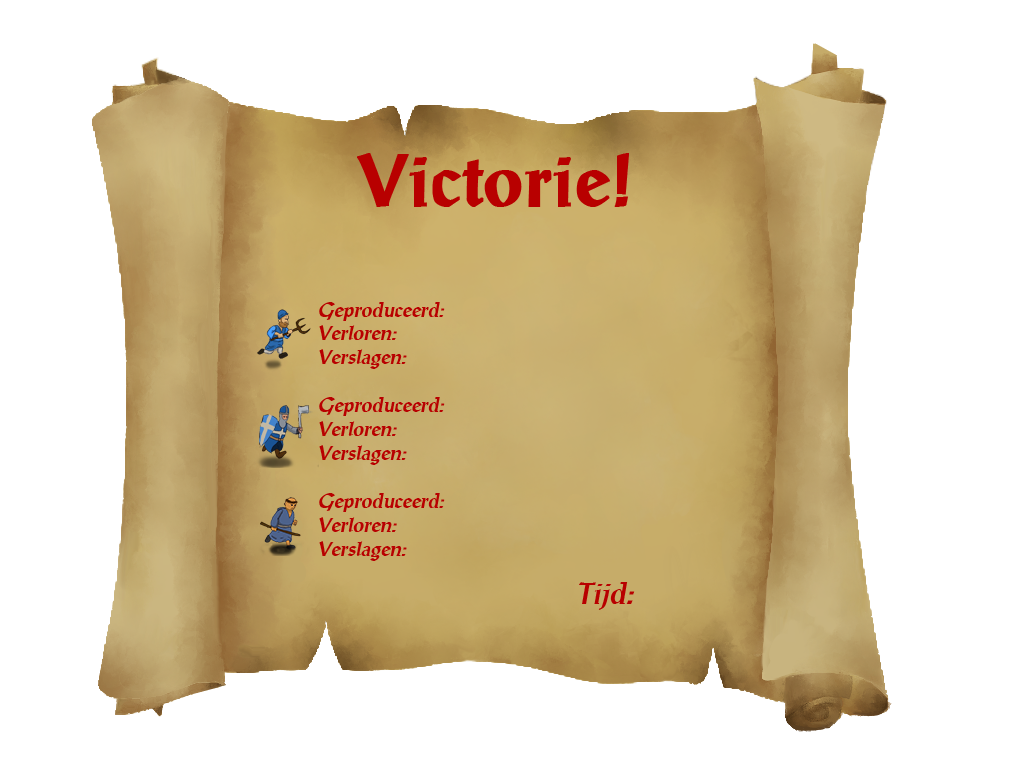
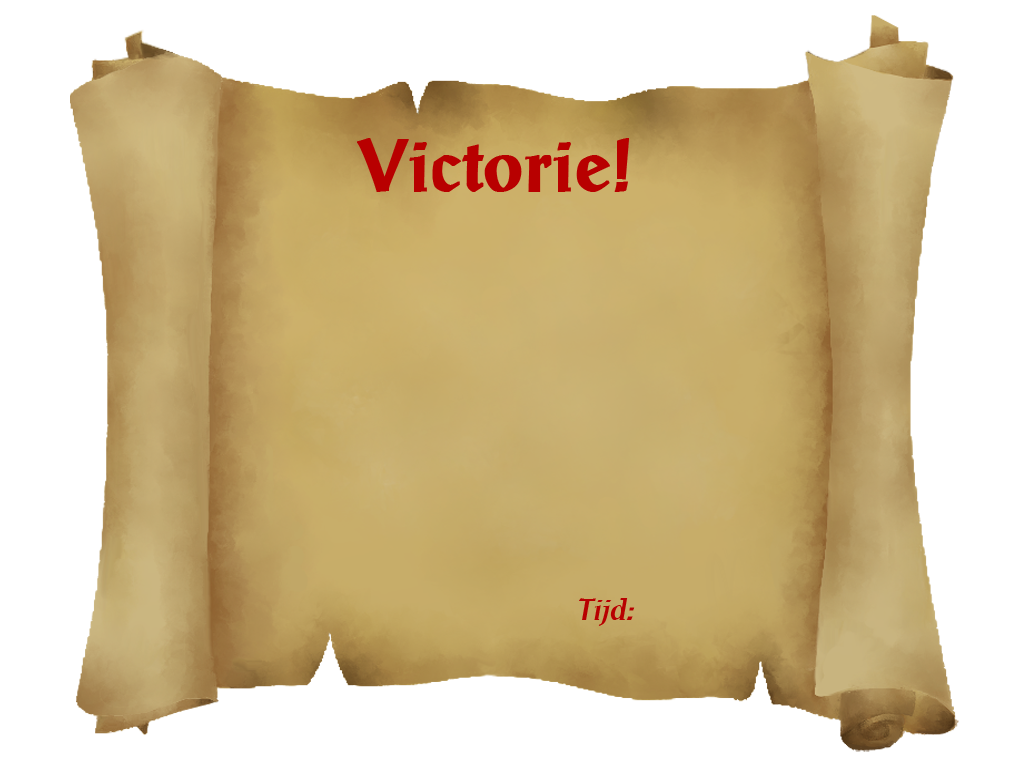
Fixed endscreen for different unit types, added time to endscreen, fixed related code

diff --git a/js/entities/endpopup.js b/js/entities/endpopup.js
@@ -4,8 +4,11 @@ Main.Endpopup =  Main.GUIContainer.extend(
 	retryButton: null, // placeholder for the retry button
 	campaignButton: null, // placeholder for the campaing button
 	levelname: null, // name of the current level
-	unitTypes: [], // Array with all the different unittypes
-	categories: [], // Array with all the categories
+    categories:  ["spawned", "lost", "killed"],
+    statY: 220, // y position for unit stats
+    statYSpace: 100, // y space between each unit's stats
+    buttonspace: 240, // pixels between the forward and retry buttons
+		
 	
 	init: function(userWon, scoreData, levelname)
 	{	
@@ -13,12 +16,12 @@ Main.Endpopup =  Main.GUIContainer.extend(
 		
 		this.initBackground(userWon);
 		this.initButtons();
+		this.initImages(scoreData);
 		this.initTextobjects(scoreData);
 		
 		this.parent(0, 0, [this.imageObject, this.retryButton, this.campaignButton]);
 	},
 	
-	// TODO: retry, backt to campaign
 	initBackground: function(userWon)
 	{
 		var img = "popup_" + (userWon ? "win" : "lose");
@@ -27,17 +30,13 @@ Main.Endpopup =  Main.GUIContainer.extend(
 	
 	initButtons: function()
 	{
-		var x = (0.5 * Constants.screenWidth) - (0.5 * this.imageObject.width);
-        var y = (0.5 * Constants.screenHeight) - (0.5 * this.imageObject.height);
-		var buttonspace = 240;
+		var x = 0.45 * Constants.screenWidth;
+        var y = 0.81 * Constants.screenHeight;
 		
-		
-		var campaignButtonImage = new Main.Image(x+ this.imageObject.width * 0.6,
-												y + this.imageObject.height * 0.8,
-												"popup_campaign");
-		var retryButtonImage = new Main.Image((x - campaignButtonImage.width - buttonspace) + this.imageObject.width * 0.6,
-												y + this.imageObject.height * 0.8,
+		var retryButtonImage = new Main.Image(x - this.buttonspace, y,
 											"popup_retry");
+		var campaignButtonImage = new Main.Image(x + this.buttonspace, y,
+												"popup_campaign");
 		
 		campaignButtonImage.baseImage = "popup_campaign";
 		retryButtonImage.baseImage = "popup_retry";
@@ -72,23 +71,57 @@ Main.Endpopup =  Main.GUIContainer.extend(
 		me.state.change(me.state.READY); 
 		me.game.remove(this);
 	},
+
+    initImages: function(scoreData)
+    {
+        for (var i=0; i<scoreData.units.length; i++)
+        {
+            var size = GetUnitSize(scoreData.units[i]);
+            var img = new Main.TileImage(320, 
+                                         (this.statY + (this.statYSpace*i)),
+                                         "user_"+scoreData.units[i]+
+                                         "_downright_0",
+                                         size, size,
+                                         0);
+            me.game.add(img, 250);
+        }
+    },
 	
 	initTextobjects: function(scoreData)
 	{
-		this.unitTypes = GetUnits();
-		
-		this.categories = ["spawned", "lost", "killed"];
-		
-		for(var i = 0; i < this.unitTypes.length; i++)
+		for(var i = 0; i < scoreData.units.length; i++)
 		{
 			for(var j = 0; j < this.categories.length; j++)
 			{
-				//console.log(this.unitTypes[i] + " : "+ this.categories[j]+ " " + scoreData.getScore(this.unitTypes[i], this.categories[j]));
-				var text = scoreData.getScore(this.unitTypes[i], this.categories[j]);
-				var textObject = new Main.TextObject(500, (300 + ((100*i) +(20*j))), text, Main.font);
+                var pretext = this.getDutchTextForCategory(this.categories[j])
+                              + ": ";
+				var number = scoreData.getScore(scoreData.units[i],
+                                              this.categories[j]);
+				var textObject = new Main.TextObject(500, (this.statY +
+                                                 ((this.statYSpace*i) +(20*j))),
+                                                   pretext + number, Main.font);
 				me.game.add(textObject, 300);
 			}
-		}
+		} // 650 581
+
+        var winTime = Math.round((me.timer.getTime() - scoreData.startLevelTime)
+                                 / 1000);
+        me.game.add(new Main.TextObject(650, 600, winTime + " sec",
+                                        Main.font),
+                    350);
 	},
-	
+
+    getDutchTextForCategory: function(category)
+    {
+        switch(category)
+        {
+            case "spawned":
+            return "Geboren"
+            case "lost":
+            return "Verloren"
+            case "killed":
+            return "Verslagen"
+        }
+        throw "Trying to get Dutch text for unknown category: " + category
+    },
 });

diff --git a/js/screens/level.js b/js/screens/level.js
@@ -5,7 +5,6 @@ Main.LevelScreen = me.ScreenObject.extend(
     name: "", // string containing name of the level
     background: null, // ImageObject with the background image
     buildings: null, // array of building buttons 
-    interface: null, // LevelInterface
     players: null, // dictionary containing all players
     actions: null, // array of action objects containing what should happen
                    // at the start of the level
@@ -78,9 +77,8 @@ Main.LevelScreen = me.ScreenObject.extend(
 
         this.backLayer.sort();
 
-        var buildingTypes = GetUnits();
-		this.scoreData = new Main.ScoreData(buildingTypes);
-
+        var unitTypes = this.getUnitTypes();
+		this.scoreData = new Main.ScoreData(unitTypes);
     },
 	
 	addScore: function(unitType, category, amount)
@@ -153,7 +151,7 @@ Main.LevelScreen = me.ScreenObject.extend(
                     break;
                 case "music":
                     try {
-                        me.audio.play(value);
+                        me.audio.play(value, true);
                         this.music = value;
                     } catch (e if e instanceof TypeError) {
                         alert("Cannot find music \""+value+"\"");
@@ -264,9 +262,6 @@ Main.LevelScreen = me.ScreenObject.extend(
                                          (capacity != null) ? Number(capacity) :
                                                               null,
                                         this.getAttribute(obj, "name"));
-				if (type == "castle") {
-					console.log("a");
-				}
                 this.createBuildingTriggers(r[ri], obj);
                 this.add(r[ri], onBackground);
             } else {
@@ -441,6 +436,33 @@ Main.LevelScreen = me.ScreenObject.extend(
         return null;
     },
 
+    // returns an array of all unit types present in this level
+    getUnitTypes: function()
+    {
+        var units = GetUnits();
+        var unitTypePresent = new Array(units.length);
+        this.buildings.forEach(function(building) {
+            for (var i=0; i<units.length; i++)
+            {
+                if (building.unitType === units[i] &&
+                    unitTypePresent[i] !== true) {
+                    unitTypePresent[i] = true;
+                    return;
+                }
+            }
+        });
+
+        var r = [];
+        for (var i=0; i<units.length; i++)
+        {
+            if (unitTypePresent[i]) {
+                r[r.length] = units[i];
+            }
+        }
+
+        return r;
+    },
+
     // makes the game wait until all the next triggers are completed and
     // disallows other actions while waiting
     waitForTriggers: function()
@@ -540,7 +562,6 @@ Main.LevelScreen = me.ScreenObject.extend(
     {
         this.levelEnded = true;
 
-        // TODO: Need an endscreen, really
         try {
             me.audio.stop(this.music);
         } catch (e if e instanceof TypeError) {

diff --git a/js/scoredata.js b/js/scoredata.js
@@ -3,6 +3,9 @@
 */
 Main.ScoreData = Object.extend(
 {
+    units: null, // array of unit types present in the level
+    startLevelTime: null, // the time when the level was started
+
 	init: function(units)
 	{
         for (var i=0; i<units.length; i++) {
@@ -10,13 +13,15 @@ Main.ScoreData = Object.extend(
             this["lost_" + units[i]] = 0;
             this["killed_" + units[i]] = 0;
         }
-		
+		this.units = units;
+        this.startLevelTime = me.timer.getTime();
 	},
 	
 	addScore: function(unitType, category, amount)
 	{
-		this[category + "_" + unitType] += amount;
-		//console.log(unitType + " " + category + " " + this.getScore(unitType, category));
+        if (this[category + "_" + unitType] != undefined) {
+            this[category + "_" + unitType] += amount;
+        }
 	},
 	
 	getScore: function(unitType, category)

diff --git a/js/entities/buttons/building.js b/js/entities/buttons/building.js
@@ -90,19 +90,15 @@ Main.Building = Main.Button.extend(
 	addUnitUI: function(type)
 	{
         // temporary way of doing the position, this should really be dynamic
-        var xpos;
-        switch (type)
+        var xpos = 12;
+        var units = GetUnits();
+        for (var i=0; i<units.length; i++)
         {
-            case "farmer":
-                xpos = 12;
+            if (type == units[i]) {
                 break;
-            case "knight":
-                xpos = 57;
-                break;
-            case "monk":
-                xpos = 102;
-                break;
+            }
         }
+        xpos += 55 * i;
         if (this.unitGUI.getValue(type) == null) {
             
             var icon = new Main.Image(xpos, -35, type+"_icon", 20, 20);

diff --git a/js/constants.js b/js/constants.js
@@ -10,7 +10,7 @@ Constants =
 
     startMuted: false, // whether the game starts muted
 
-    allLevelsPlayable: true, // if true, all levels start playable
+    allLevelsPlayable: false, // if true, all levels start playable
 
     players: [
         "neutral",
@@ -24,7 +24,7 @@ Constants =
         "support",
     ],
 
-    textScale : 0.6,
+    textScale : 0.7,
 
     difficulties: [
         {

diff --git a/js/screens/loading.js b/js/screens/loading.js
@@ -26,7 +26,6 @@ Main.LoadingScreen =  me.ScreenObject.extend(
 	
 	onBackgroundLoad: function()
 	{
-		console.log("execute");
 		this.background = me.loader.getImage("loading_screen");
 	},
 	
